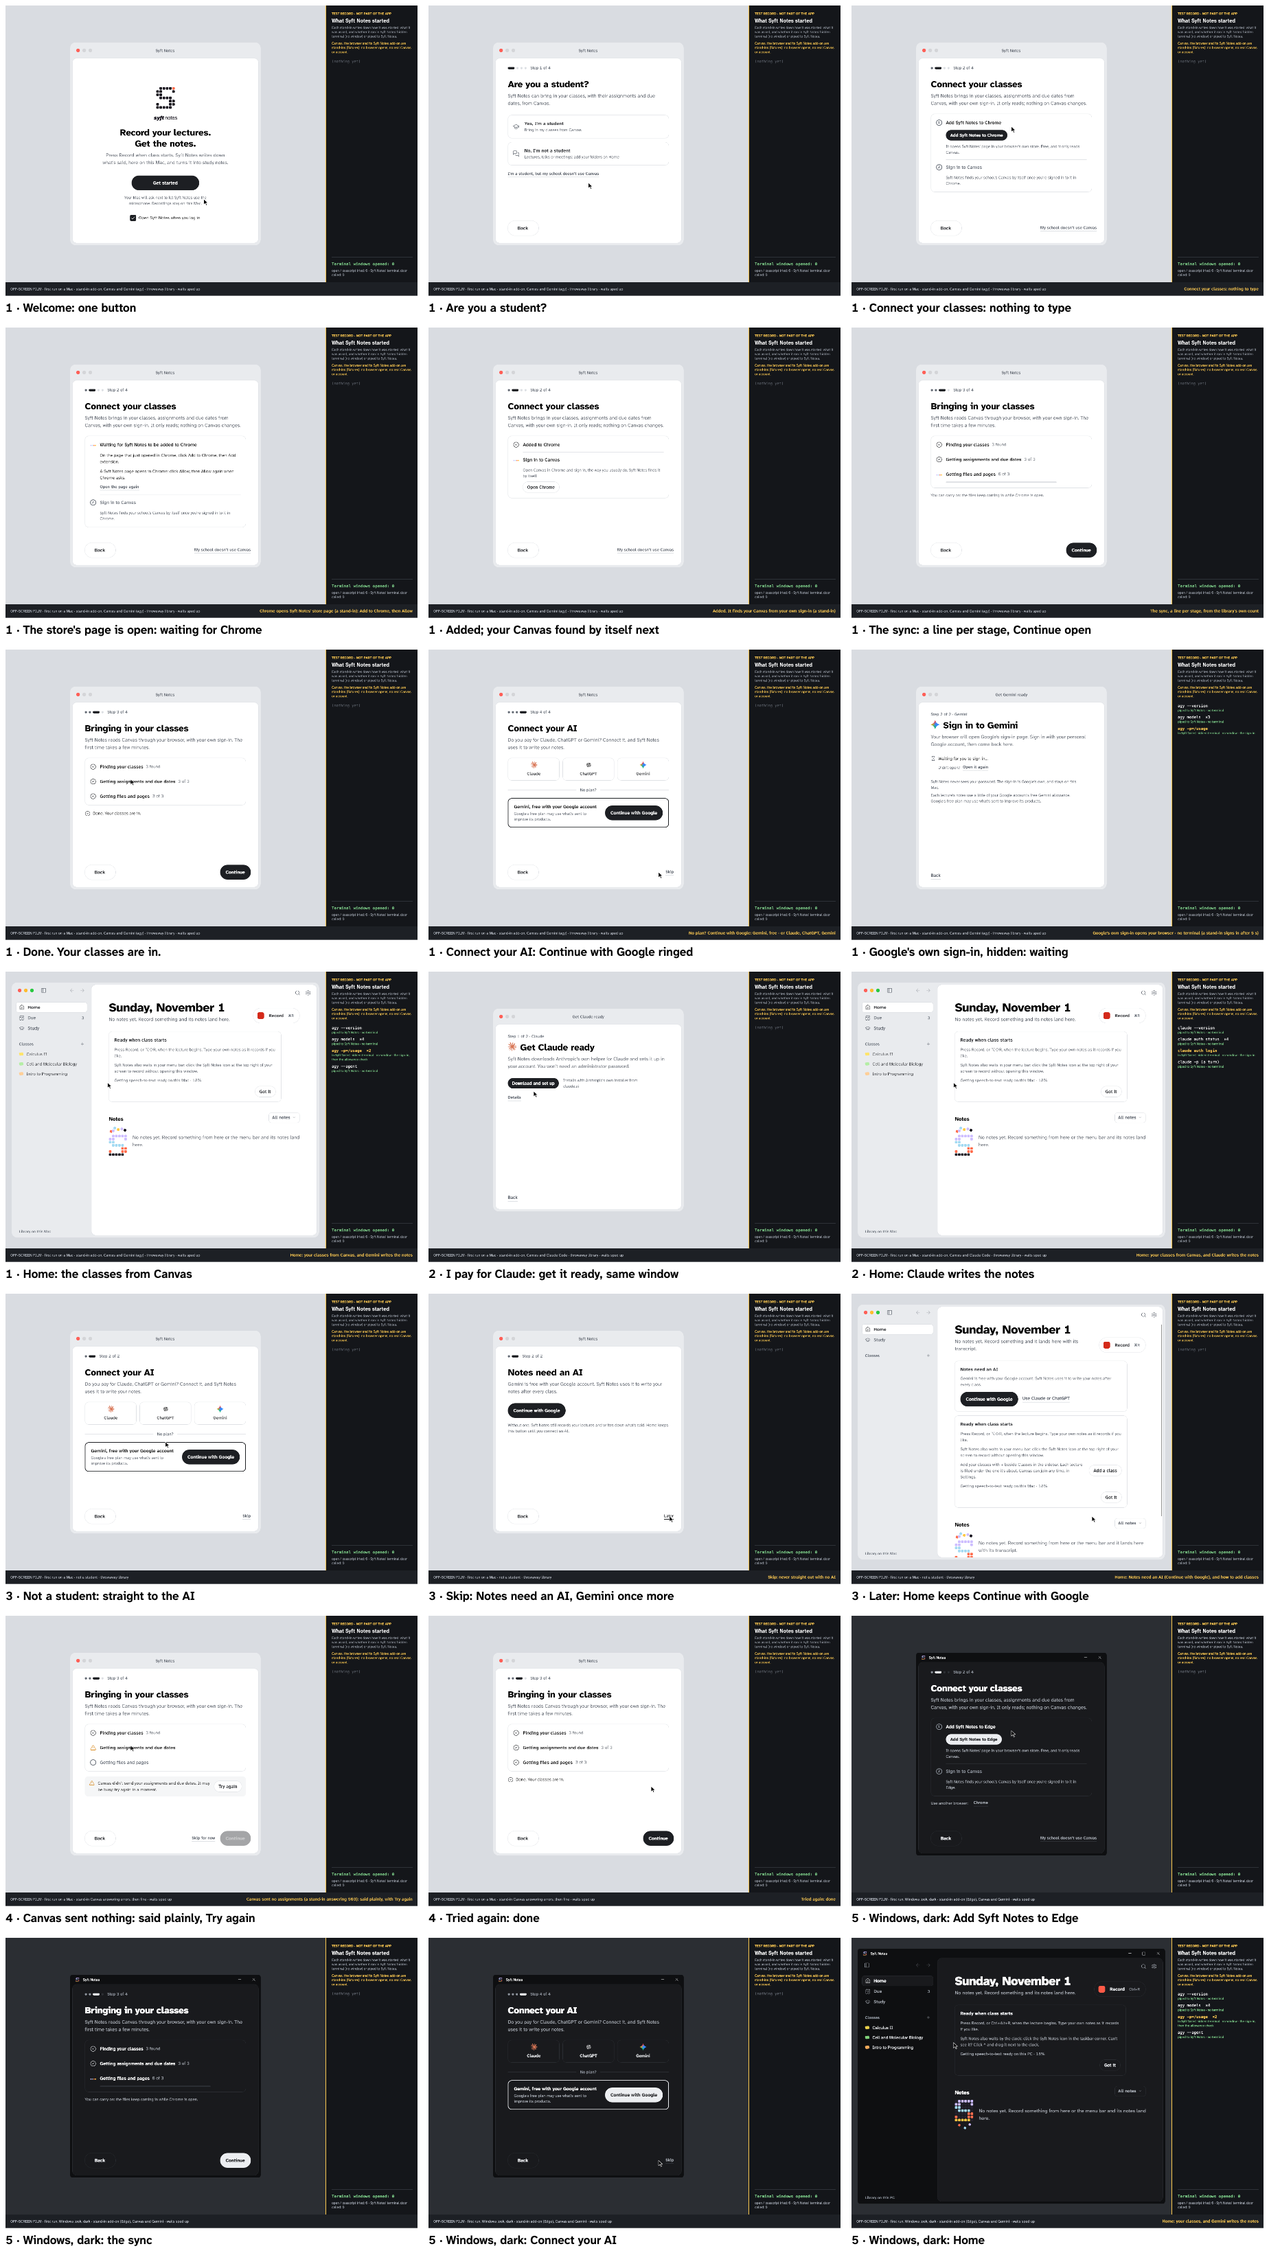
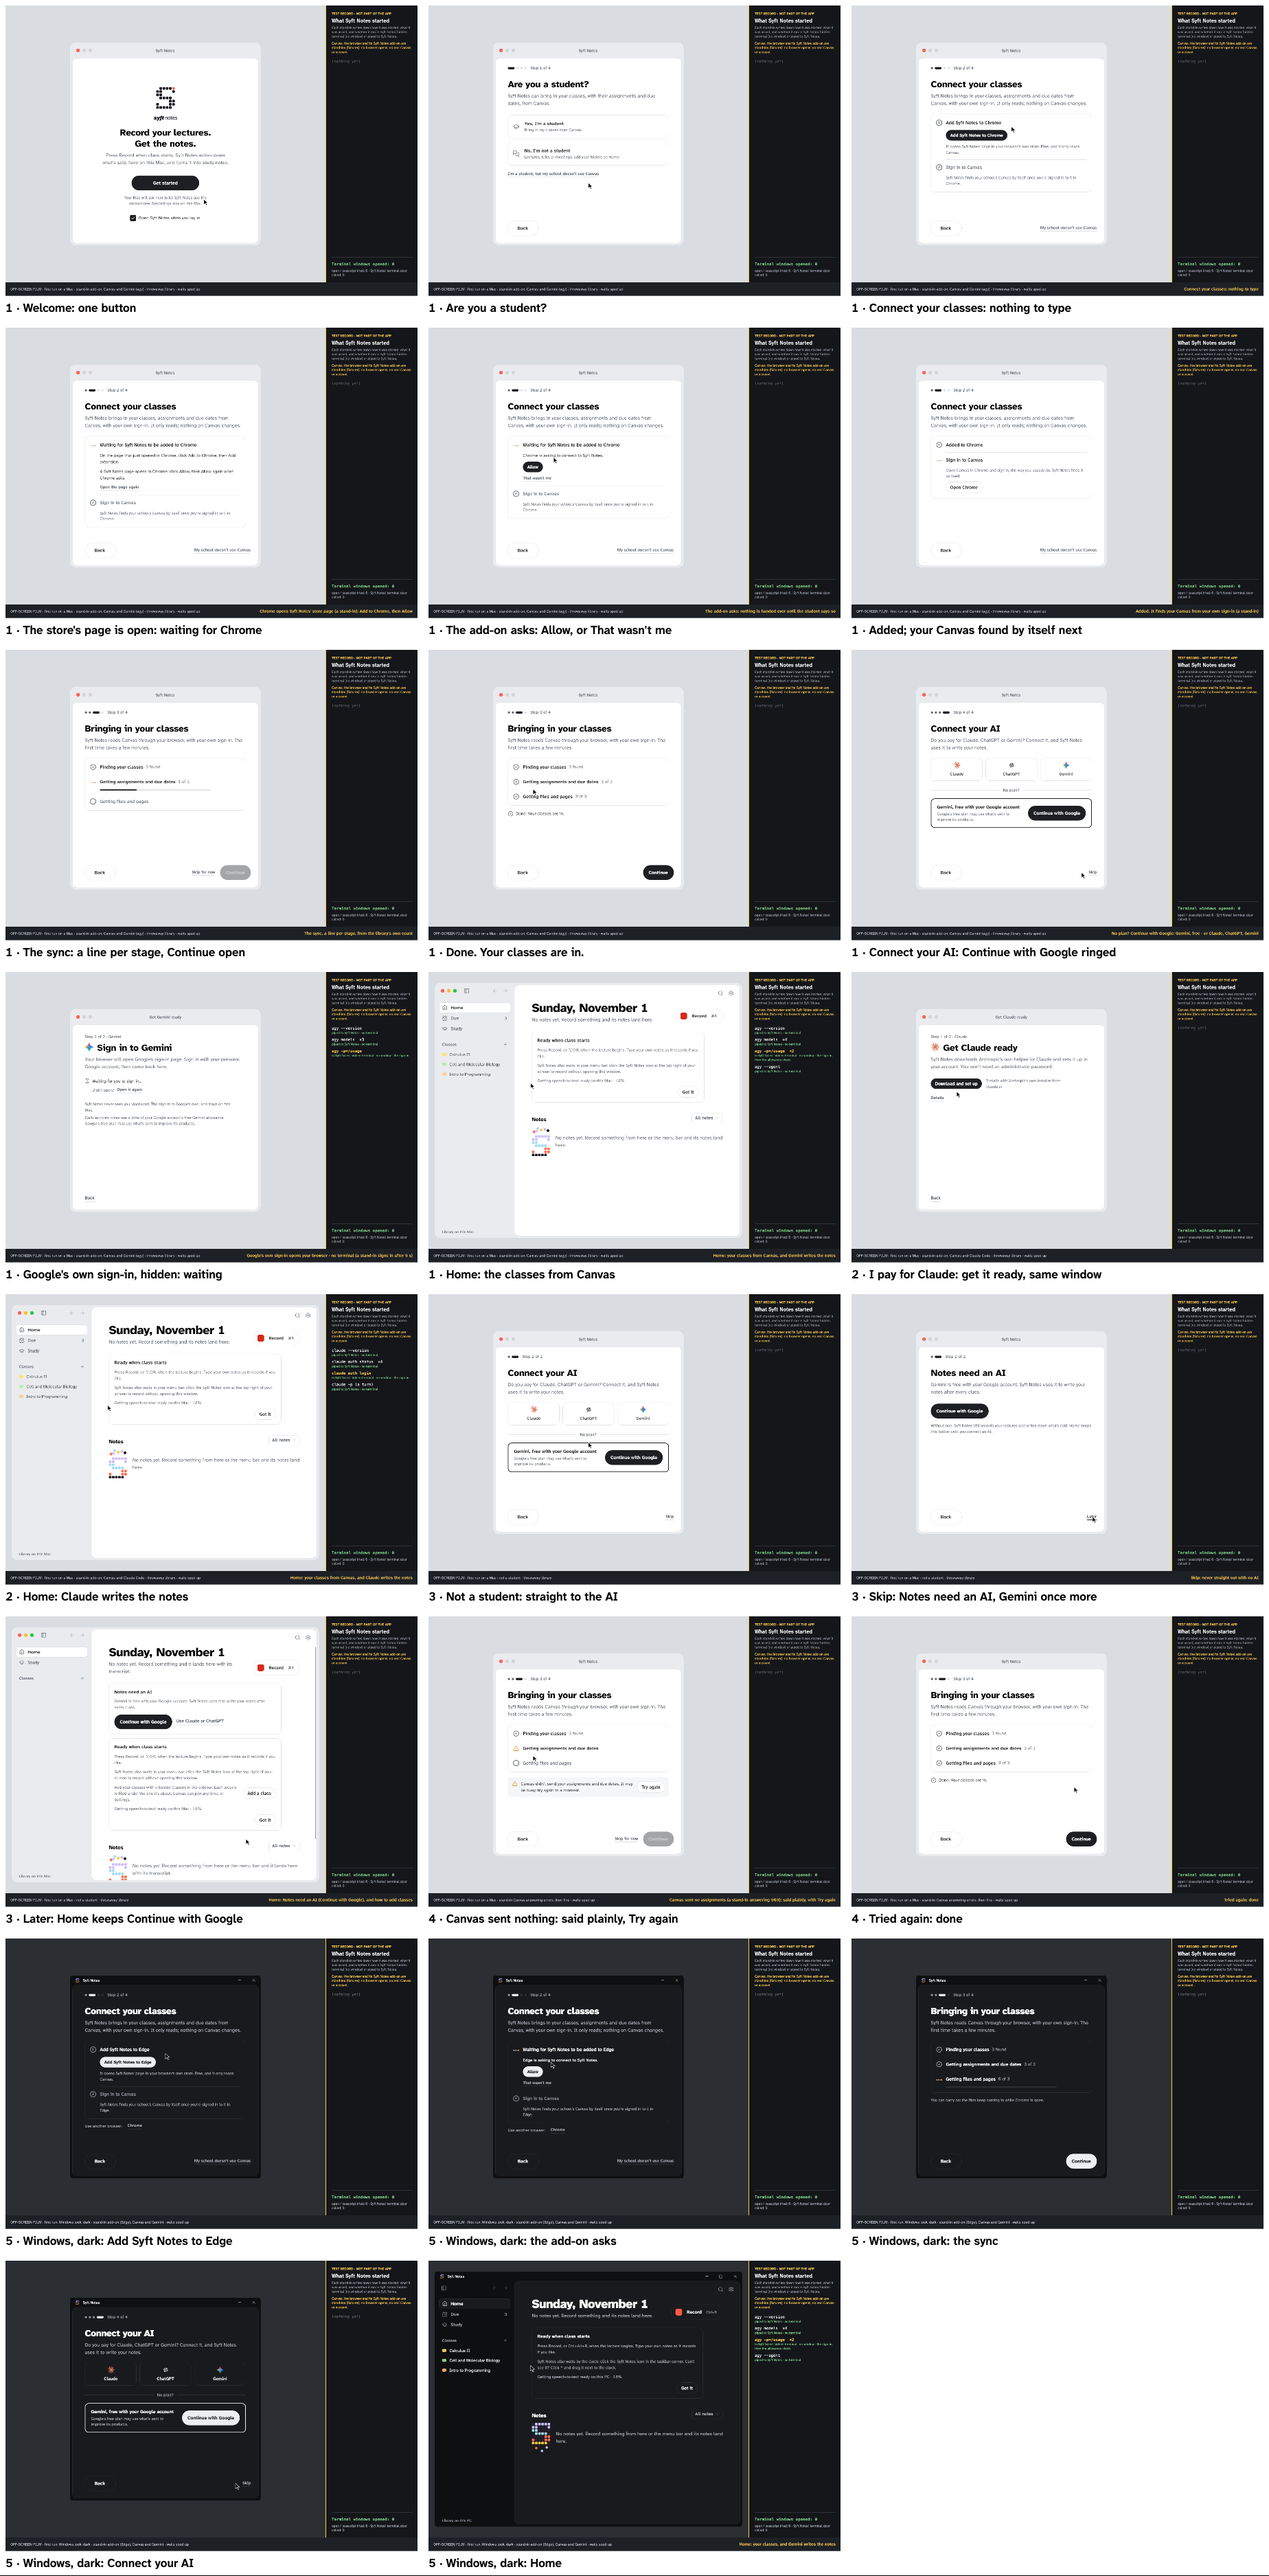
The funnel's films show the new step where the add-on asks to connect: Chrome (or Edge, in the Windows film) is asking to connect to Syft Notes, the pointer goes to Allow, and only then does Added to Chrome and the search for Canvas follow; four of the five films and the contact sheet are drawn agai

diff --git a/engine/tests/StudyStash.App.Tests/FunnelFilms.cs b/engine/tests/StudyStash.App.Tests/FunnelFilms.cs
@@ -554,23 +554,25 @@ public sealed class FunnelFilms
         ("01-funnel-canvas-gemini", 55, "1 · Are you a student?"),
         ("01-funnel-canvas-gemini", 100, "1 · Connect your classes: nothing to type"),
         ("01-funnel-canvas-gemini", 128, "1 · The store's page is open: waiting for Chrome"),
-        ("01-funnel-canvas-gemini", 140, "1 · Added; your Canvas found by itself next"),
-        ("01-funnel-canvas-gemini", 175, "1 · The sync: a line per stage, Continue open"),
-        ("01-funnel-canvas-gemini", 220, "1 · Done. Your classes are in."),
-        ("01-funnel-canvas-gemini", 270, "1 · Connect your AI: Continue with Google ringed"),
-        ("01-funnel-canvas-gemini", 405, "1 · Google's own sign-in, hidden: waiting"),
-        ("01-funnel-canvas-gemini", 440, "1 · Home: the classes from Canvas"),
-        ("02-funnel-claude", 290, "2 · I pay for Claude: get it ready, same window"),
-        ("02-funnel-claude", 410, "2 · Home: Claude writes the notes"),
+        ("01-funnel-canvas-gemini", 150, "1 · The add-on asks: Allow, or That wasn't me"),
+        ("01-funnel-canvas-gemini", 195, "1 · Added; your Canvas found by itself next"),
+        ("01-funnel-canvas-gemini", 217, "1 · The sync: a line per stage, Continue open"),
+        ("01-funnel-canvas-gemini", 262, "1 · Done. Your classes are in."),
+        ("01-funnel-canvas-gemini", 312, "1 · Connect your AI: Continue with Google ringed"),
+        ("01-funnel-canvas-gemini", 447, "1 · Google's own sign-in, hidden: waiting"),
+        ("01-funnel-canvas-gemini", 482, "1 · Home: the classes from Canvas"),
+        ("02-funnel-claude", 332, "2 · I pay for Claude: get it ready, same window"),
+        ("02-funnel-claude", 452, "2 · Home: Claude writes the notes"),
         ("03-not-a-student", 100, "3 · Not a student: straight to the AI"),
         ("03-not-a-student", 145, "3 · Skip: Notes need an AI, Gemini once more"),
         ("03-not-a-student", 210, "3 · Later: Home keeps Continue with Google"),
-        ("04-sync-error-try-again", 230, "4 · Canvas sent nothing: said plainly, Try again"),
-        ("04-sync-error-try-again", 330, "4 · Tried again: done"),
+        ("04-sync-error-try-again", 272, "4 · Canvas sent nothing: said plainly, Try again"),
+        ("04-sync-error-try-again", 372, "4 · Tried again: done"),
         ("05-windows-dark", 100, "5 · Windows, dark: Add Syft Notes to Edge"),
-        ("05-windows-dark", 180, "5 · Windows, dark: the sync"),
-        ("05-windows-dark", 250, "5 · Windows, dark: Connect your AI"),
-        ("05-windows-dark", 420, "5 · Windows, dark: Home"),
+        ("05-windows-dark", 150, "5 · Windows, dark: the add-on asks"),
+        ("05-windows-dark", 222, "5 · Windows, dark: the sync"),
+        ("05-windows-dark", 292, "5 · Windows, dark: Connect your AI"),
+        ("05-windows-dark", 462, "5 · Windows, dark: Home"),
     ];
 
     // --- 5 · Windows, dark ---------------------------------------------------------------------------------------------
